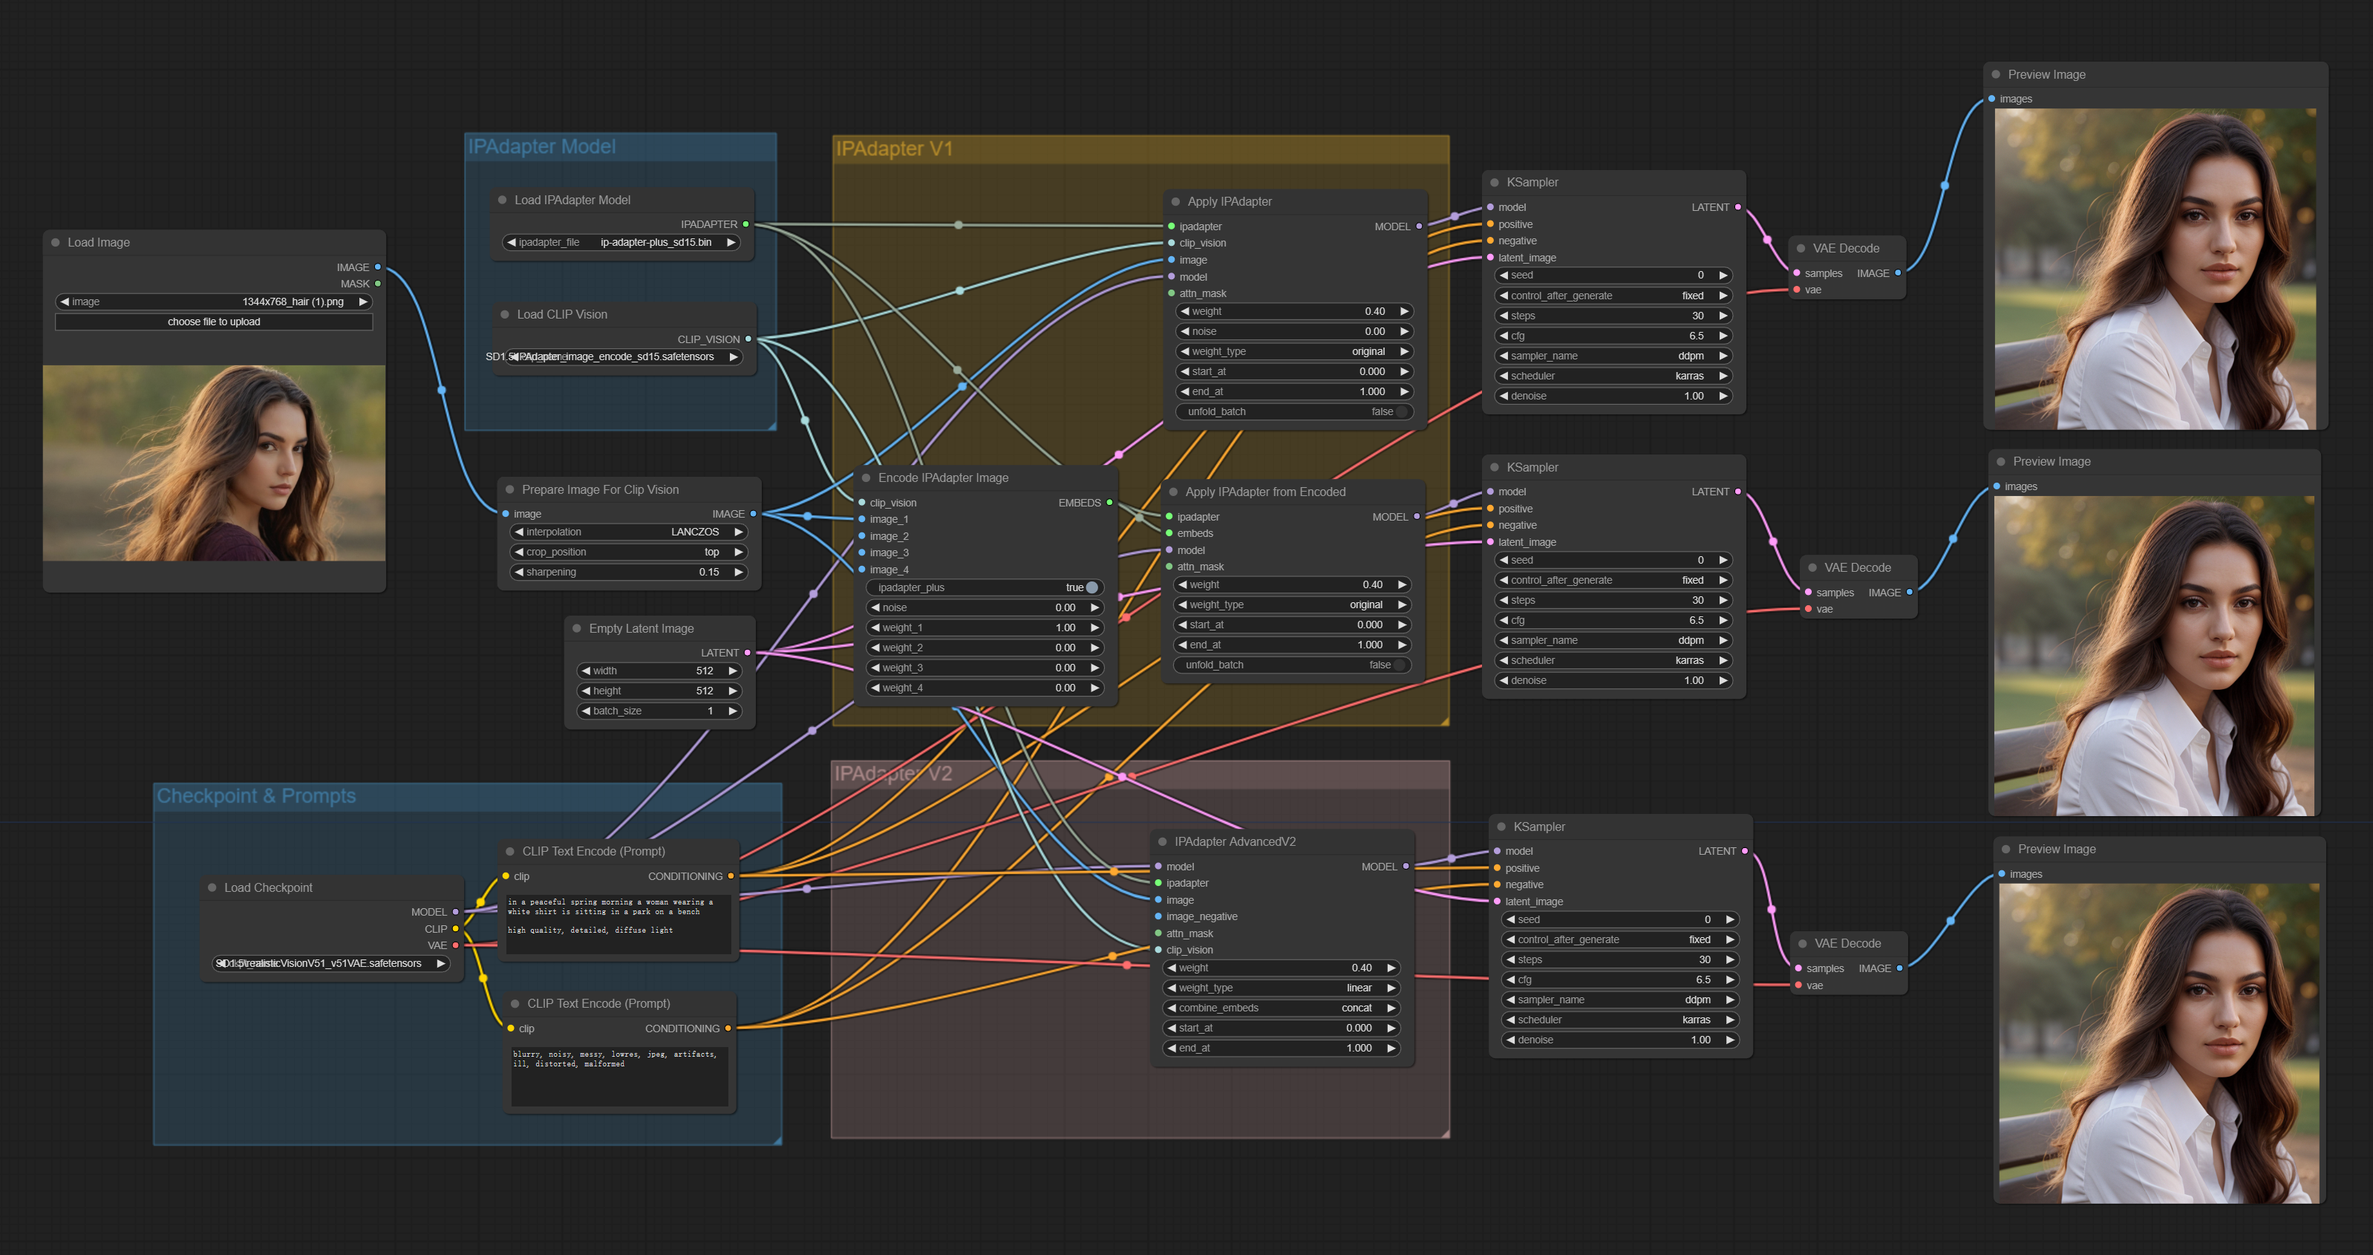
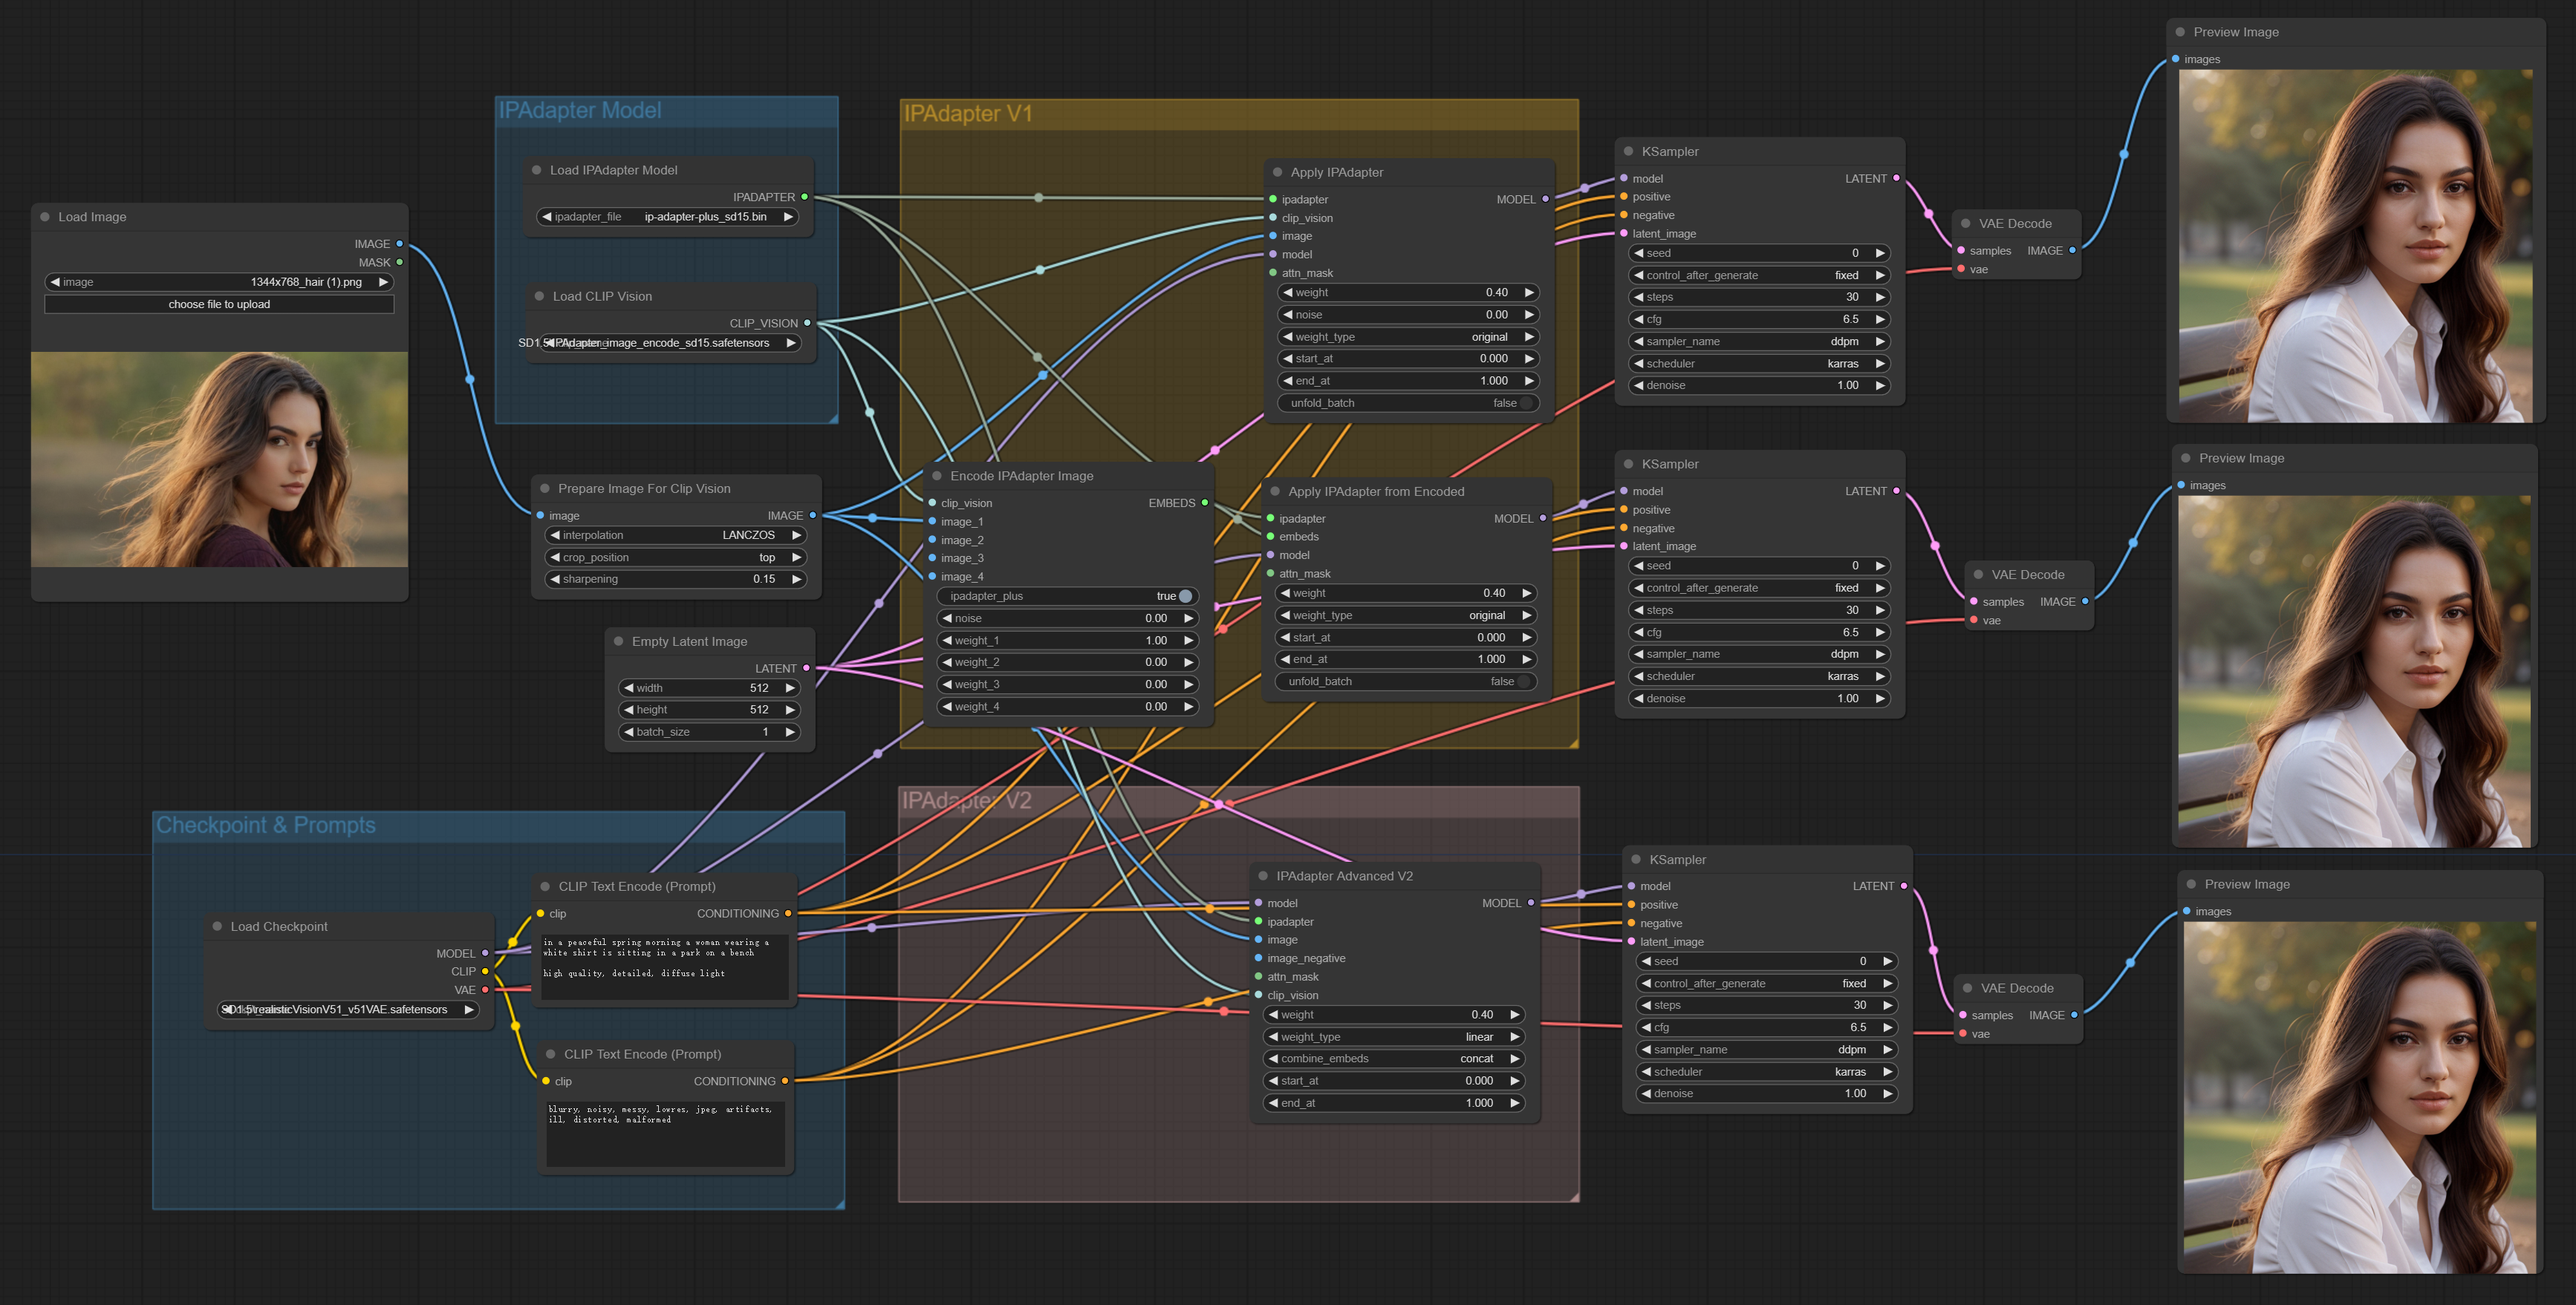
update readme

Changed region(s): [[0.0, 0.0308, 0.9912, 0.9846], [0.062, 0.6154, 0.1549, 0.6462], [0.7125, 0.3692, 0.7434, 0.4]]

diff --git a/README.md b/README.md
@@ -2,6 +2,8 @@
 
 A copy of [ComfyUI_IPAdapter_plus](https://github.com/cubiq/ComfyUI_IPAdapter_plus), Only changed node name to coexist with ComfyUI_IPAdapter_plus v1 version.
 
+![image](exampleV2/IPAdapterV2_menu.png)
+
 Thanks to author [Cubiq](https://github.com/cubiq)'s great work, Please support his original work.
 
 ![image](exampleV2/IPAdapterV1&V2.png)
